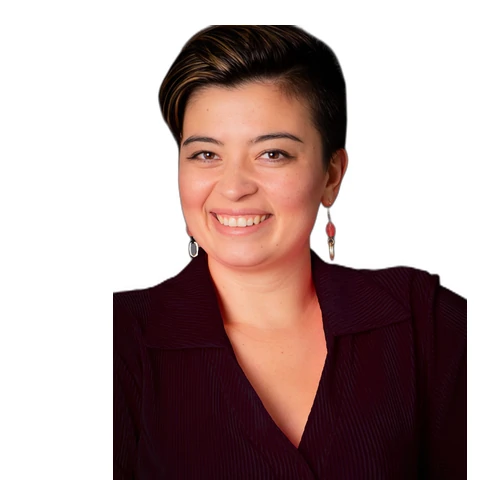
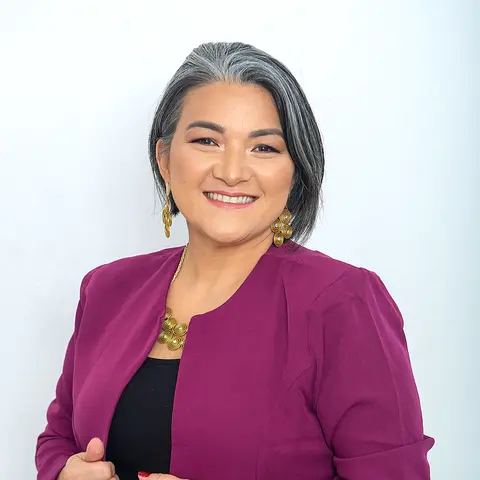
Polish hero and customer counter

diff --git a/styles.css b/styles.css
@@ -300,7 +300,6 @@ h3 {
   overflow: hidden;
   display: grid;
   place-items: center;
-  border-bottom: 3px solid #a85a00;
   background:
     radial-gradient(ellipse at 50% 52%, rgba(255, 191, 38, 0.28) 0%, rgba(255, 213, 113, 0.14) 42%, transparent 73%),
     linear-gradient(180deg, #f3e8d1 0%, #dfcca8 100%);
@@ -341,12 +340,62 @@ h3 {
   text-transform: uppercase;
 }
 
+.masthead-genres {
+  position: absolute;
+  z-index: 2;
+  inset: 0;
+  pointer-events: none;
+}
+
+.masthead-genre {
+  position: absolute;
+  color: rgba(116, 59, 0, 0.82);
+  font-size: clamp(0.58rem, 0.78vw, 0.78rem);
+  font-weight: 800;
+  letter-spacing: 0.19em;
+  line-height: 1;
+  text-transform: uppercase;
+  text-shadow: 0 1px 0 rgba(255, 245, 191, 0.78);
+}
+
+.genre-drama {
+  top: 12px;
+  left: 18px;
+}
+
+.genre-science-fiction {
+  top: 12px;
+  right: 18px;
+}
+
+.genre-disaster {
+  bottom: 11px;
+  left: 18px;
+}
+
+.genre-suspense {
+  right: 18px;
+  bottom: 11px;
+}
+
 .masthead-face {
   position: relative;
   z-index: 1;
   display: block;
   white-space: nowrap;
   color: #ffc21c;
+  background: linear-gradient(
+    180deg,
+    #fff2a2 0%,
+    #ffd945 25%,
+    #ffbc0b 64%,
+    #e99400 100%
+  );
+  background-size: 100% 145%;
+  background-position: 50% 22%;
+  -webkit-background-clip: text;
+  background-clip: text;
+  -webkit-text-fill-color: transparent;
   -webkit-text-stroke: clamp(1px, 0.014em, 2px) #a55300;
   text-shadow:
     -0.016em -0.018em 0 #fff0a0,
@@ -354,6 +403,37 @@ h3 {
     0 0.14em 0.17em rgba(113, 55, 0, 0.28),
     0 0 0.2em rgba(255, 185, 23, 0.2);
   animation: masthead-shine 38s ease-in-out infinite;
+}
+
+.masthead-sparkle {
+  position: absolute;
+  z-index: 4;
+  color: #fff8bd;
+  font-size: clamp(0.72rem, 1.15vw, 1.2rem);
+  line-height: 1;
+  opacity: 0;
+  pointer-events: none;
+  text-shadow:
+    0 0 5px #fff,
+    0 0 13px rgba(255, 183, 0, 0.88);
+  animation: masthead-sparkle 16s ease-in-out infinite;
+}
+
+.sparkle-one {
+  top: 33%;
+  left: 21%;
+}
+
+.sparkle-two {
+  top: 27%;
+  right: 17%;
+  animation-delay: -5.3s;
+}
+
+.sparkle-three {
+  right: 45%;
+  bottom: 24%;
+  animation-delay: -10.6s;
 }
 
 .master-glint {
@@ -372,9 +452,28 @@ h3 {
   0%,
   100% {
     filter: brightness(1) saturate(1);
+    background-position: 50% 22%;
   }
   48% {
-    filter: brightness(1.09) saturate(1.04);
+    filter: brightness(1.06) saturate(1.03);
+    background-position: 50% 74%;
+  }
+}
+
+@keyframes masthead-sparkle {
+  0%,
+  76%,
+  100% {
+    opacity: 0;
+    transform: scale(0.35) rotate(0deg);
+  }
+  82% {
+    opacity: 0.92;
+    transform: scale(1.05) rotate(45deg);
+  }
+  88% {
+    opacity: 0.42;
+    transform: scale(0.72) rotate(90deg);
   }
 }
 
@@ -1553,7 +1652,7 @@ h3 {
   flex-wrap: wrap;
   align-items: center;
   justify-content: center;
-  gap: 16px;
+  gap: 10px 14px;
   margin-top: 58px;
   padding: 21px;
   border: 3px solid var(--gold-dark);
@@ -1566,7 +1665,6 @@ h3 {
 .counter-label {
   font-size: clamp(0.88rem, 2vw, 1.08rem);
   font-weight: 700;
-  text-transform: uppercase;
 }
 
 .counter-digits {
@@ -1836,6 +1934,31 @@ h3 {
   .masthead-stage {
     min-height: 225px;
     padding: 24px 0 10px;
+  }
+
+  .masthead-genre {
+    font-size: 0.53rem;
+    letter-spacing: 0.12em;
+  }
+
+  .genre-drama,
+  .genre-science-fiction {
+    top: 10px;
+  }
+
+  .genre-disaster,
+  .genre-suspense {
+    bottom: 9px;
+  }
+
+  .genre-drama,
+  .genre-disaster {
+    left: 10px;
+  }
+
+  .genre-science-fiction,
+  .genre-suspense {
+    right: 10px;
   }
 
   .masthead {

diff --git a/index.html b/index.html
@@ -50,9 +50,18 @@
         <div class="hero-grain" aria-hidden="true"></div>
         <div class="masthead-stage">
           <div class="masthead-rays" aria-hidden="true"></div>
+          <div class="masthead-genres">
+            <span class="masthead-genre genre-drama">DRAMA</span>
+            <span class="masthead-genre genre-science-fiction">SCIENCE FICTION</span>
+            <span class="masthead-genre genre-disaster">DISASTER</span>
+            <span class="masthead-genre genre-suspense">SUSPENSE</span>
+          </div>
           <h1 class="masthead">
             <span class="masthead-face"><span>THE MOVIE</span> <span>MASTER</span></span>
           </h1>
+          <span class="masthead-sparkle sparkle-one" aria-hidden="true">✦</span>
+          <span class="masthead-sparkle sparkle-two" aria-hidden="true">✦</span>
+          <span class="masthead-sparkle sparkle-three" aria-hidden="true">✦</span>
         </div>
 
         <div class="hero-layout page-shell">
@@ -661,9 +670,10 @@
             </a>
           </div>
 
-          <div class="visitor-counter" role="group" aria-label="Time-based website visitor counter">
-            <span class="counter-label">Total website visitors so far:</span>
+          <div class="visitor-counter" role="group" aria-label="The Movie Master has 0 satisfied customers and counting!">
+            <span class="counter-label">The Movie Master has</span>
             <span class="counter-digits" id="visitor-counter" aria-hidden="true">0</span>
+            <span class="counter-label">satisfied customers and counting!</span>
           </div>
         </div>
       </section>

diff --git a/script.js b/script.js
@@ -119,7 +119,7 @@
         output.replaceChildren(fragment);
         counter?.setAttribute(
           "aria-label",
-          `Total website visitors so far: ${count.toLocaleString("en-US")}`,
+          `The Movie Master has ${count.toLocaleString("en-US")} satisfied customers and counting!`,
         );
         priorFormatted = formatted;
       }

diff --git a/CREDITS.md b/CREDITS.md
@@ -11,7 +11,7 @@ Customer portraits are real stock photographs from Pexels. They are used as
 illustrative portraits under the [Pexels license](https://www.pexels.com/license/).
 
 - Gabriel W.: [Professional man in a blue suit smiling](https://www.pexels.com/photo/professional-man-in-blue-suit-smiling-portrait-38677836/)
-- Josephina B.: [Professional portrait of a smiling woman in a studio](https://www.pexels.com/photo/professional-portrait-of-smiling-woman-in-studio-38197025/)
+- Josephina B.: [Studio portrait of an elegant woman](https://www.pexels.com/photo/studio-portrait-of-an-elegant-woman-15780887/)
 - Torrin W.: [Professional headshot of a smiling businessman](https://www.pexels.com/photo/professional-headshot-of-smiling-businessman-30004315/)
 - Sabrina C.: [Smiling woman standing in a studio](https://www.pexels.com/photo/smiling-woman-standing-in-studio-15306494/)
 - Wert P.: [Smiling young man in a suit](https://www.pexels.com/photo/smiling-young-man-in-suit-posing-on-white-studio-background-17311570/)
